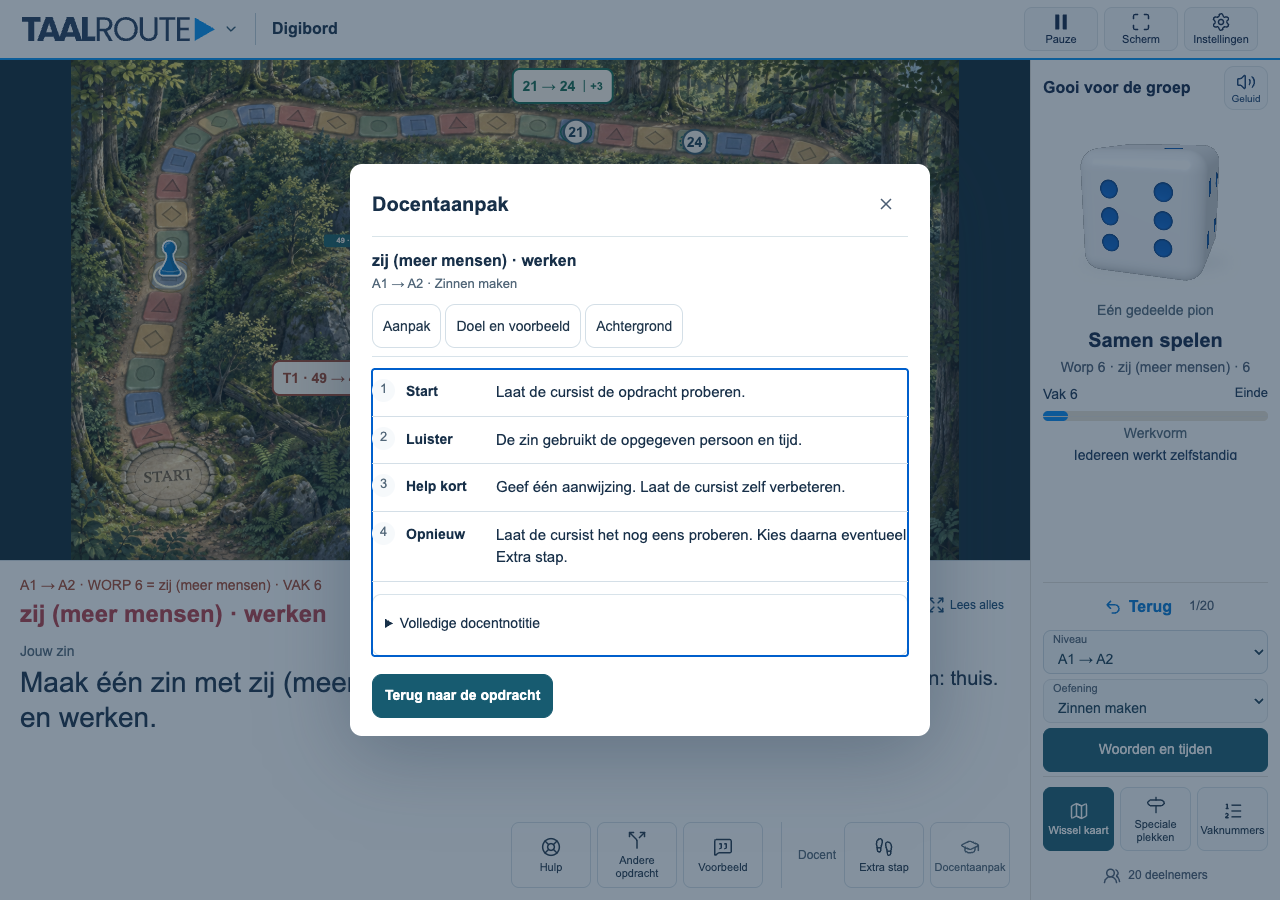
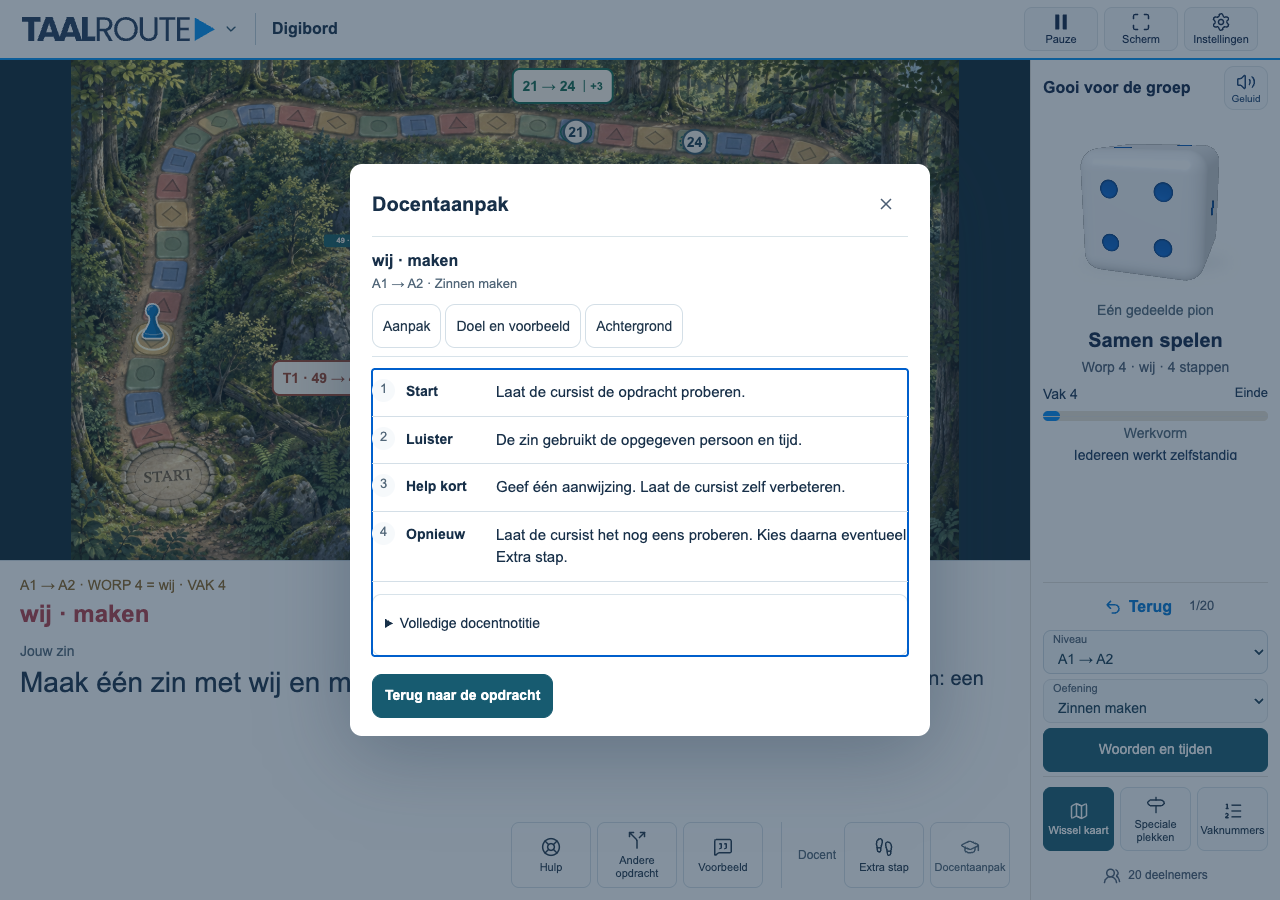
Use the entire task panel to toggle the enlarged view

diff --git a/Lessen/bediening.js b/Lessen/bediening.js
@@ -85,23 +85,31 @@ globalThis.DigiBoardSupport=(()=>{
   const teacher=node('div','db-teacher-actions');teacher.setAttribute('role','group');teacher.setAttribute('aria-label','Voor de docent');teacher.append(node('span','db-teacher-label','Docent'));
   const extra=addIcon($('pp-extra'),'Extra stap voor de docent','footprints');extra.setAttribute('aria-haspopup','dialog');
   const notes=addIcon($('db-lesson-support'),'Docentaanpak','graduation-cap');notes.setAttribute('aria-haspopup','dialog');teacher.append(extra,notes);toolbar.append(teacher);$('pp-task').append(toolbar);
-  const expandLabel=node('span','db-expand-label','Lees alles');$('pp-large-button').append(expandLabel);
-  const focusButton=node('button','pp-text-button');focusButton.id='db-map-focus';focusButton.type='button';
-  focusButton.innerHTML='<i data-lucide="maximize-2" aria-hidden="true"></i><span>Kaart groter</span>';
-  document.querySelector('.pp-task-actions').prepend(focusButton);
   const surface=$('praatpad-board'),game=$('pp-game');
-  function mapFocus(on){surface.dataset.mapFocus=String(on);focusButton.setAttribute('aria-pressed',String(on));focusButton.querySelector('span').textContent=on?'Kaart en opdracht':'Kaart groter';}
+  function mapFocus(on){surface.dataset.mapFocus=String(on);}
   mapFocus(false);
-  focusButton.onclick=()=>{if(game.dataset.large==='true')$('pp-board-button').click();mapFocus(surface.dataset.mapFocus!=='true');};
   let previousMapFocus=false;
   document.addEventListener('fullscreenchange',()=>{
    if(document.fullscreenElement){previousMapFocus=surface.dataset.mapFocus==='true';if(game.dataset.large==='true')$('pp-board-button').click();mapFocus(true);}
    else mapFocus(previousMapFocus);
   });
-  const instruction=$('pp-instruction');instruction.tabIndex=0;instruction.setAttribute('role','button');instruction.title='Klik om de opdracht groot te bekijken';
-  const expand=()=>{if(game.dataset.large!=='true'&&!$('pp-large-button').disabled)$('pp-large-button').click();};
-  instruction.addEventListener('click',expand);
-  instruction.addEventListener('keydown',e=>{if(e.key==='Enter'||e.key===' '){e.preventDefault();expand();}});
+  const taskPanel=$('pp-task');taskPanel.tabIndex=0;
+  taskPanel.setAttribute('aria-keyshortcuts','Enter');
+  taskPanel.title='Klik om de opdracht te vergroten. Klik nogmaals om terug te gaan.';
+  const interactive='button,a,input,select,textarea,summary,[role="button"],[contenteditable]:not([contenteditable="false"])';
+  function toggleTask(){
+   const control=$(game.dataset.large==='true'?'pp-board-button':'pp-large-button');
+   if(control.disabled)return;
+   control.click();taskPanel.focus({preventScroll:true});
+  }
+  taskPanel.addEventListener('click',e=>{
+   if(e.composedPath().some(n=>n instanceof Element&&n!==taskPanel&&n.matches(interactive)))return;
+   toggleTask();
+  });
+  taskPanel.addEventListener('keydown',e=>{if(e.key==='Enter'&&e.target===taskPanel){e.preventDefault();toggleTask();}});
+  document.addEventListener('keydown',e=>{
+   if(e.key==='Escape'&&game.dataset.large==='true'&&!document.querySelector('dialog[open],#tr-app-trigger[aria-expanded="true"],.tr-controls[open]')){e.preventDefault();toggleTask();}
+  });
   $('pp-roll').setAttribute('aria-keyshortcuts','Space');$('pp-roll').title='Gooi de dobbelsteen · spatiebalk';
   document.addEventListener('keydown',e=>{
    if(e.code!=='Space'||e.altKey||e.ctrlKey||e.metaKey||e.shiftKey||e.defaultPrevented)return;

diff --git a/Lessen/bediening.css b/Lessen/bediening.css
@@ -309,11 +309,6 @@
 #praatpad-board.db-ui .db-teacher-panel .db-more summary{min-height:44px;display:flex;align-items:center;font-size:14px;}
 #praatpad-board.db-ui .db-teacher-panel .db-source{grid-template-columns:80px 1fr;gap:8px;margin:16px 0;font-size:14px;}
 #praatpad-board.db-ui #pp-dialog .db-teacher-panel #db-support-back{font-size:14px;min-height:44px;margin:8px 0 0;padding:8px 12px;}
-#praatpad-board.db-ui #pp-instruction[role=button]{cursor:zoom-in;border-radius:4px;}
-#praatpad-board.db-ui #pp-instruction[role=button]:focus-visible{outline:3px solid #0075d5;outline-offset:3px;}
-#praatpad-board.db-ui #pp-game[data-large=true] #pp-instruction{cursor:default;}
-#praatpad-board.db-ui #db-map-focus{min-height:44px;display:inline-flex;align-items:center;gap:6px;font-size:12px;white-space:normal;}
-#praatpad-board.db-ui #db-map-focus svg{width:18px;height:18px;flex:none;}
 /* A stable, explicit map view: no task-length changes during a roll. */
 @media(min-width:600px){
  #praatpad-board.db-ui[data-map-focus=true][data-db-form=numbers] #pp-game:not([data-large=true]) .pp-playfield{grid-template-rows:minmax(0,1fr) 142px;}
@@ -337,3 +332,10 @@
  #praatpad-board.db-ui[data-map-focus=true] #pp-game:not([data-large=true]) #pp-task:has(#pp-travel-choices:not([hidden])) .pp-roles{display:none;}
  #praatpad-board.db-ui[data-map-focus=true] #pp-game:not([data-large=true]) #pp-travel-choices:not([hidden]){min-height:44px;max-height:none;flex:1;overflow:auto;}
 }
+
+/* The entire task surface is the single view switch. Keep old hooks for saved-state rendering. */
+#praatpad-board.db-ui #pp-task :is(#pp-large-button,#pp-board-button,#db-map-focus){display:none!important;}
+#praatpad-board.db-ui #pp-task{cursor:zoom-in;}
+#praatpad-board.db-ui #pp-game[data-large=true] #pp-task{cursor:zoom-out;}
+#praatpad-board.db-ui #pp-task :is(button,a,input,select,summary){cursor:pointer;}
+#praatpad-board.db-ui #pp-task:focus-visible{outline:3px solid #0075d5;outline-offset:-3px;}

diff --git a/Documentatie/Kaartfocus-en-docentaanpak.md b/Documentatie/Kaartfocus-en-docentaanpak.md
@@ -5,9 +5,9 @@
 ## Gebruik
 
 - **Docentaanpak** opent een rustig venster van maximaal 580 px breed. Start, Luister, Help kort en Opnieuw zijn de vier korte stappen. Gewone tekst is 15 px, de venstertitel 20 px. Doel en voorbeeld en Achtergrond staan op aparte tabs; de volledige notitie is uitklapbaar. Bestaande didactische gegevens blijven beschikbaar.
-- **Spatiebalk** gooit op het speelbord, ook nadat de knop Volledig scherm is aangeklikt. Invoervelden, keuzelijsten, links, het appmenu, open dialogen en instellingen behouden hun eigen bediening. Ingedrukt houden veroorzaakt geen extra worpen. Tijdens een lopende worp is opnieuw gooien geblokkeerd. De opdrachttekst houdt zijn eigen toetsenbordactie om te vergroten.
-- Klik op **de opdrachttekst** om de bestaande grote opdrachtweergave te openen. Enter en spatie werken ook wanneer deze tekst toetsenbordfocus heeft. **Speelbord tonen** brengt de kaart terug.
-- **Kaart groter** maakt het opdrachtvak een vaste strook van 142 px. De volledige taak, voorbeelden en docentknoppen blijven bereikbaar via **Lees alles** of de opdrachttekst. **Kaart en opdracht** herstelt de gewone verdeling.
+- **Spatiebalk** gooit op het speelbord, ook nadat de knop Volledig scherm is aangeklikt. Invoervelden, keuzelijsten, links, het appmenu, open dialogen en instellingen behouden hun eigen bediening. Ingedrukt houden veroorzaakt geen extra worpen. Tijdens een lopende worp is opnieuw gooien geblokkeerd. Enter vergroot of verkleint het witte vlak; spatie laat de dobbelsteen rollen.
+- Klik **ergens op het witte opdrachtvlak** om de opdracht te vergroten. Klik nogmaals op dat vlak om terug te gaan naar de kaart. Ook lege ruimte, de kop en de toelichting werken. De hulpknoppen behouden hun eigen actie. Enter schakelt de weergave wanneer het vlak toetsenbordfocus heeft; Escape verkleint. Spatie blijft gooien.
+- De dubbele knoppen **Kaart groter**, **Lees alles** en **Speelbord tonen** zijn niet meer zichtbaar. In volledig scherm blijft de korte opdrachtstrook van 142 px beschikbaar; klik op die strook om de volledige taak en hulp te openen.
 - Bij het betreden van volledig scherm wordt de kaartstand actief; bij verlaten wordt de eerdere verdeling hersteld. Dit verandert geen opgeslagen lesinstellingen. Bij bijzondere verplaatsingen blijven de knoppen voor de routekeuze bereikbaar in de strook.
 
 ## Metingen
@@ -29,5 +29,7 @@ Visuele controle uitgevoerd in de lokale app en met schermafbeeldingen. JSON-opd
 - [Docentaanpak](Kaartfocus-QA/docentaanpak.png)
 - [Grote kaart bij 1920 × 1080](Kaartfocus-QA/grote-kaart.png)
 - [Meetgegevens](Kaartfocus-QA/metingen.json)
+
+Aanvullende controle: `tests/task-surface.cjs` controleert klikken op lege ruimte en koppen op 767, 1280 en 1920 px; terugkeer naar dezelfde kaartafmetingen; afwezigheid van dubbele knoppen; Enter/Escape; spatie vanaf het vlak; en hulpknoppen zonder onbedoeld vergroten/verkleinen. Ook in de bestaande lokale browser is één klik vergroten en één klik verkleinen gecontroleerd, met behoud van vak 23.
 
 Bronwijzigingen: `Lessen/bediening.js`, `Lessen/bediening.css`, `package.json`, `tests/focus-controls.cjs`.

diff --git a/AGENTS.md b/AGENTS.md
@@ -46,3 +46,5 @@ Correctie tunnelmonden: alleen arrive vóór de rand zetten is niet voldoende. O
 Taalroute-appmenu: lokale KANDIDAAT, publicatie GESLOTEN. `Lessen/appmenu.js` bevat één register en bestaande SVG-woordmerkvormen; `Lessen/appmenu.css` bepaalt 60px totale headerhoogte inclusief 2px accent. Behoud de oorspronkelijke verborgen pp-logo voor afdrukken, de bestaande bedieningsknoppen en lesopslag. Op smalle schermen worden dezelfde knoppen verplaatst, niet gekopieerd. Controle: tests/appmenu.cjs en Documentatie/Taalroute-appmenu-kandidaat.md. Geen automatische publicatie.
 
 Kaartfocus: `data-map-focus=true` reserveert vanaf 600px een vaste opdrachtstrook van 142px; vergroten via de opdrachttekst opent de bestaande volledige taakweergave. Fullscreen activeert tijdelijk kaartfocus en herstelt de vorige stand bij verlaten. Bij routekeuzes moeten de keuzeknoppen zichtbaar en bereikbaar blijven. Spatie gooit alleen op het spel, met guards voor tekstinvoer/menu's/dialogen en herhaling. Docentaanpak is een apart compact paneel, zonder de grote leerlingvoorbeelden te verkleinen. Controle: tests/focus-controls.cjs.
+
+Gebruikerscorrectie: één klik ergens op het witte opdrachtvlak vergroot de taak, nogmaals klikken verkleint. Hulpknoppen zijn uitgezonderd. Geen zichtbare Kaart groter/Lees alles/Speelbord tonen-knoppen; oude handlers blijven intern beschikbaar voor bestaande lesstatus. Enter schakelt het gefocuste vlak, Escape verkleint en spatie blijft gooien. Tests: task-surface.cjs en focus-controls.cjs.
